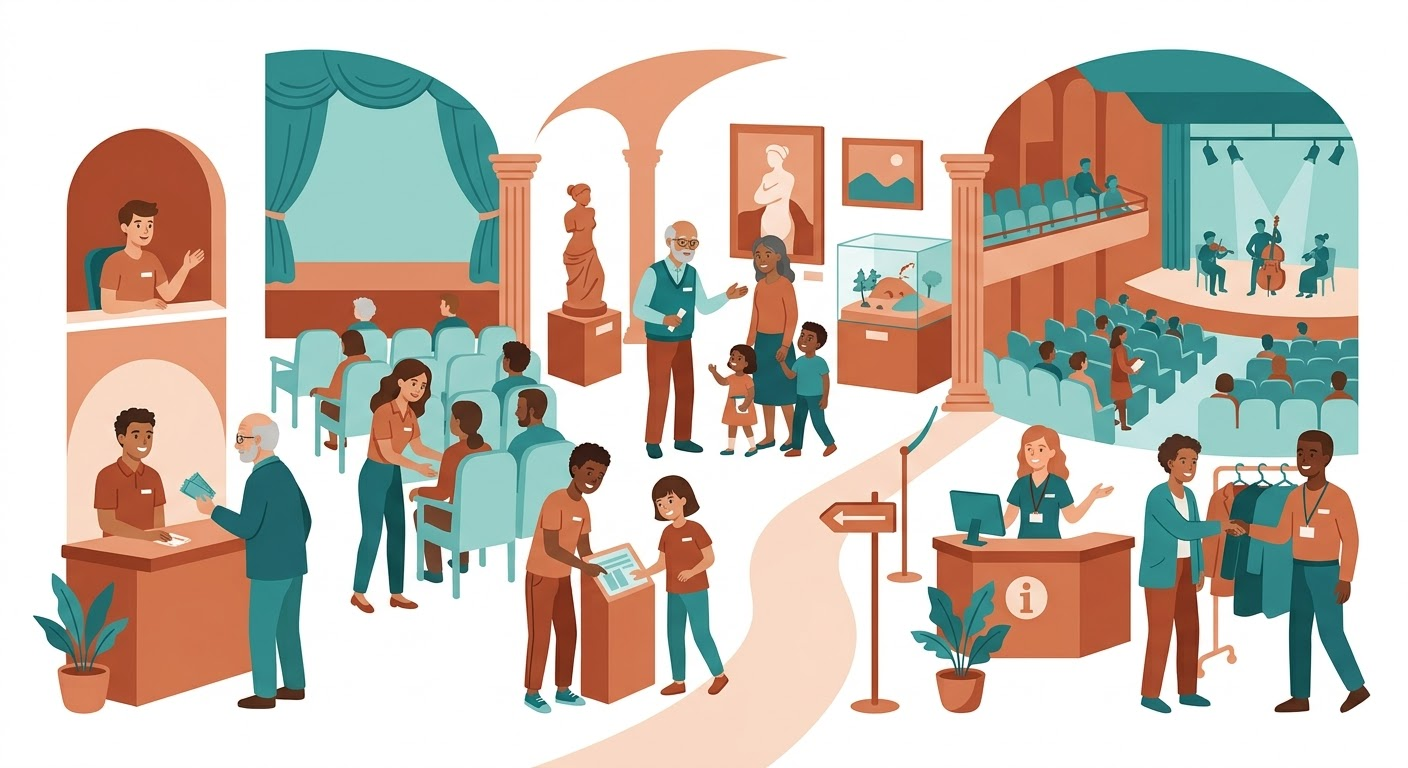
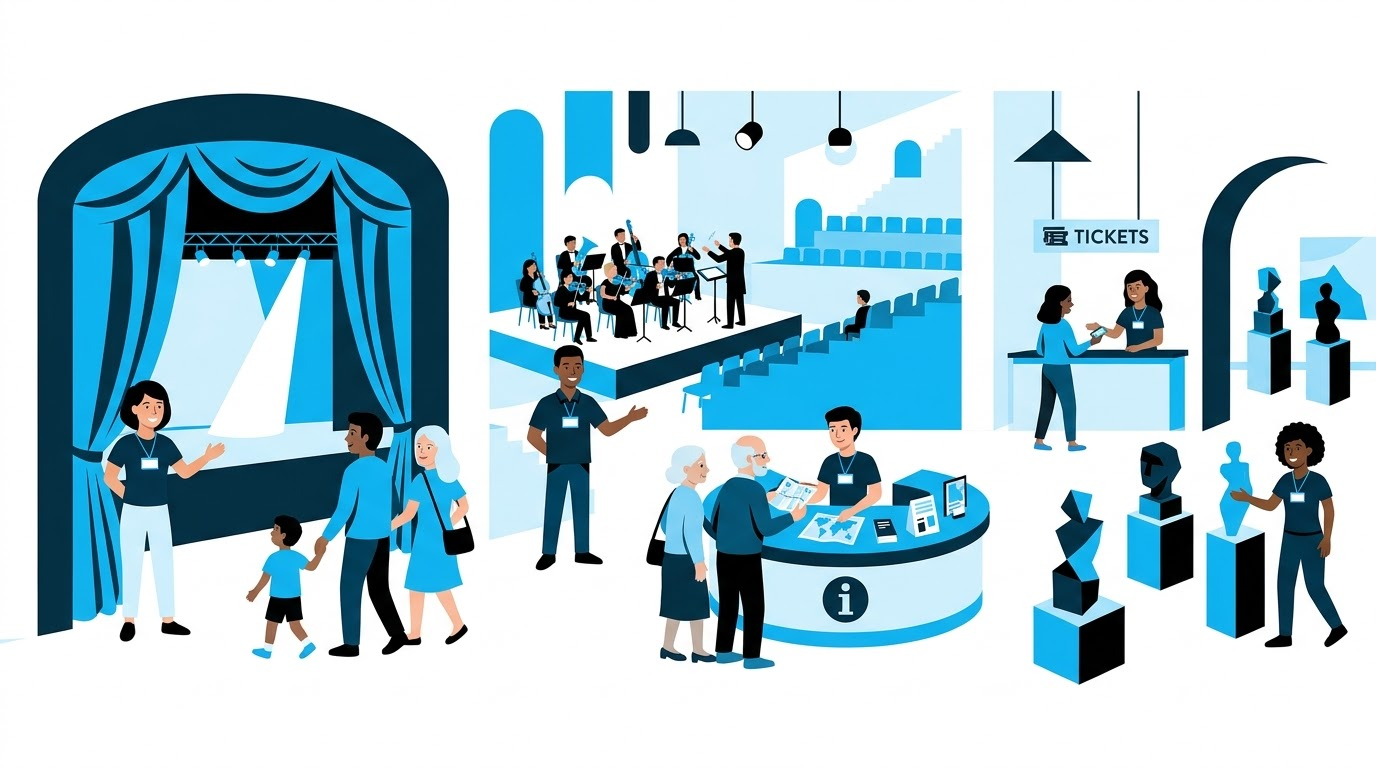
Neue Illustration in Markenfarben, Alt-Texte aktualisiert
- public/images/ehrenamt-illustration.jpg durch die neue, blaue
  Illustration ersetzt; WebP neu erzeugt (1200×670)
- Alt-Texte auf „Über uns“ und „Aktiv werden“ beschreiben die neue
  Szene (Theater, Konzert, Infotresen, Tickets, Ausstellung)
- Parallax der Illustration schneidet nur noch oben/unten minimal an
  statt die Figuren am Rand

Claude-Session: https://claude.ai/code/session_012SFPEnY2PjSJP1oVyiNh9k

diff --git a/ehrenamt-website/components/Illustration.tsx b/ehrenamt-website/components/Illustration.tsx
@@ -9,16 +9,17 @@ export function Illustration({ alt, caption }: { alt: string; caption?: string }
           data-parallax-root
           className="overflow-hidden rounded-3xl border border-mist bg-white dark:border-brand-deep"
         >
-          {/* Mit Animation leicht vergrößert, damit die Parallax-Verschiebung keine Kanten zeigt */}
+          {/* Mit Animation oben/unten je ~3 % Reserve (negative Ränder, Breite bleibt vollständig),
+              damit die Parallax-Verschiebung keine Kanten zeigt */}
           <img
             src="/images/ehrenamt-illustration.webp"
             alt={alt}
             width={1200}
-            height={655}
+            height={670}
             loading="lazy"
             decoding="async"
-            data-parallax="0.05"
-            className="h-auto w-full in-[.motion-ok]:scale-[1.12] dark:brightness-90"
+            data-parallax="0.025"
+            className="h-auto w-full in-[.motion-ok]:-my-[1.7%] dark:brightness-90"
           />
         </div>
         {caption && <figcaption className="mt-3 text-base text-ink-soft dark:text-paper/70">{caption}</figcaption>}

diff --git a/ehrenamt-website/app/ueber-uns/page.tsx b/ehrenamt-website/app/ueber-uns/page.tsx
@@ -75,7 +75,7 @@ export default function UeberUnsPage() {
       </PageHero>
 
       <Illustration
-        alt="Illustration: Ehrenamtliche in orangefarbenen Shirts mit Namensschildern helfen in verschiedenen Kultureinrichtungen – an der Kasse, beim Platzanweisen im Theater, im Museum bei einer Familie mit Kindern, am Infotresen, an der Garderobe und bei einem Konzert."
+        alt="Illustration: Ehrenamtliche mit Namensschildern im Einsatz in Darmstädter Kultureinrichtungen – sie begrüßen eine Familie vor der Theaterbühne, weisen bei einem Orchesterkonzert den Weg, beraten ein älteres Paar am Infotresen, verkaufen Eintrittskarten und erklären Skulpturen in einer Ausstellung."
         caption="Über 200 Ehrenamtliche unterstützen rund 40 Kultureinrichtungen in Darmstadt."
       />
 

diff --git a/ehrenamt-website/app/aktiv-werden/page.tsx b/ehrenamt-website/app/aktiv-werden/page.tsx
@@ -27,7 +27,7 @@ export default function AktivWerdenPage() {
         </p>
       </PageHero>
 
-      <Illustration alt="Illustration: So vielfältig kann Ihr Ehrenamt sein – Ehrenamtliche verkaufen Eintrittskarten, weisen Plätze im Theater an, erklären einer Familie ein Museumsstück, beraten am Infotresen, betreuen die Garderobe und helfen bei Konzerten." />
+      <Illustration alt="Illustration: So vielfältig kann Ihr Ehrenamt sein – Gäste im Theater begrüßen, bei Konzerten den Weg weisen, am Infotresen beraten, Eintrittskarten verkaufen oder Skulpturen in einer Ausstellung erklären." />
 
       <Section id="so-gehts" title="So einfach geht’s">
         <ol className="grid grid-cols-1 gap-6 lg:grid-cols-3">
